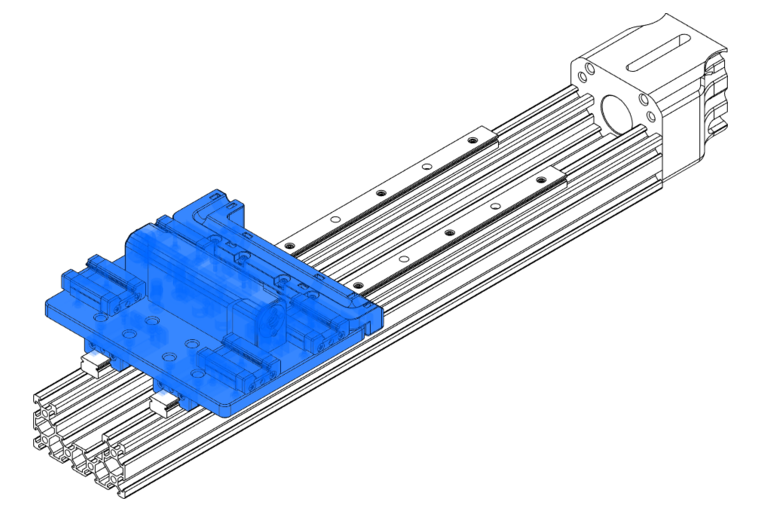
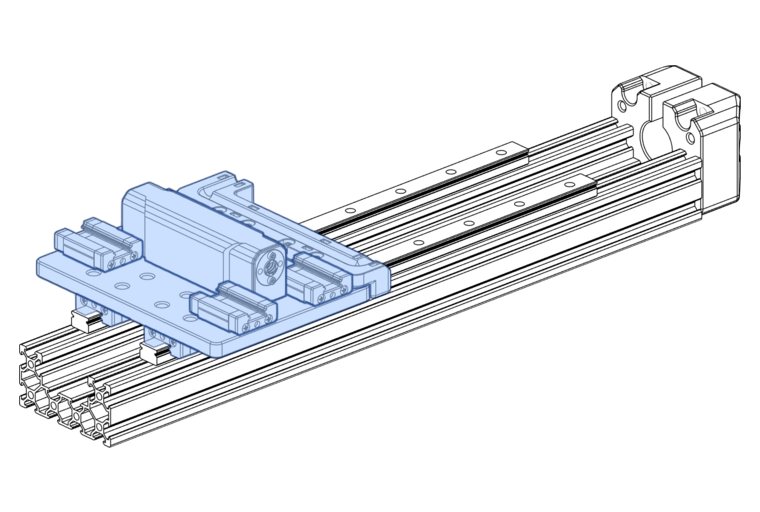
Update various old Y motor mount images, add FMJ bolt note

Changed region(s): [[0.0, 0.0312, 0.9987, 0.9688], [0.7868, 0.0625, 0.8171, 0.0938]]

diff --git a/docs/assembly_manual/chapters/fmj_assembly.md b/docs/assembly_manual/chapters/fmj_assembly.md
@@ -108,13 +108,15 @@ Place extrusion `C` on the front of extrusion `D`, again with the channel (and r
 
 !!! info annotate "Components Required"
     ```
-    32 x M5x12mm BHCS
+    32 x M5x10mm BHCS
     2 x FMJ Plate (1)
     ```
 1. :material-factory: See [FMJ Sourcing](#fmj-sourcing) above.
 
 !!! warning
-    If your FMJ plates are thicker than 6mm, you may need to use longer M5 BHCS to engage enough thread in the T-Nuts on the column. For example - if your FMJ is 8mm thick, you should use M5x14mm BHCS instead of 12mm.
+    The length of the M5 BHCS bolts used to attach the FMJ to the column depends on the thickness of your FMJ. The bolts specified here are for a plate thickness of 6mm, which is currently the most common choice, and is supplied as standard with the LDO kit.
+
+    If your FMJ plates are thicker than this, you should aim for an M5 BHCS that is 4-6mm longer than your plates are thick.
 
 Take one of your FMJ plates and line up the bottom edge of the FMJ shoulder with the bottom edge of the `C` extrusion.
 

diff --git a/docs/printing/print_guide.md b/docs/printing/print_guide.md
@@ -7,7 +7,7 @@
 
     **Unless you're willing to experiment and almost certainly waste filament, stick with 0.2mm layers.**
 
-    We provide a **Minimum Wall Thickness** for every printable part, which is the minimum **total** thickness of your perimeter lines and top and bottom solid layers. This depends on the size of your nozzle and line width settings in your slicer so must be calculated based on your own settings.
+    We provide a **Minimum Wall Thickness** for every printable part, which is the minimum **total** thickness of your perimeter lines and top and bottom solid layers. This depends on the size of your nozzle and line width settings in your slicer so must be calculated.
 
     Given a 0.4mm nozzle, 100% perimeter line width, 0.2mm layers and a minimum wall thickness of 2.4mm, you would set your slicer to generate a _minimum_ of 6 perimeters and 12 top / bottom layers.
 

diff --git a/docs/assembly_manual/chapters/x_axis_assembly.md b/docs/assembly_manual/chapters/x_axis_assembly.md
@@ -79,7 +79,7 @@ Fasten the X-Axis Table Supports to the C-Beam using M5x12mm BHCS and spring T-n
 
 Fasten the X-Axis Table Supports to the 2040 extrusions using M5x8mm BHCS and spring T-nuts.
 
-![fasten the X-Axis table support to the spring t-nut in 500mm 2040 extrusions using 18 M5x8mm BHCS](../img/x_axis_assembly/y_axis_step_32.png){: .shadow}
+![fasten the X-Axis table support to the spring t-nut in 500mm 2040 extrusions using 18 M5x8mm BHCS](../img/x_axis_assembly/y_axis_step_33.png){: .shadow}
 
 !!! warning
     Double-check the length of M5 bolts you're using. If your bolts are too long you will bottom out the bolt in the extrusion channel and it will not grip the table supports. If your bolts are too short you'll break the printed parts if you over-tighten them.
